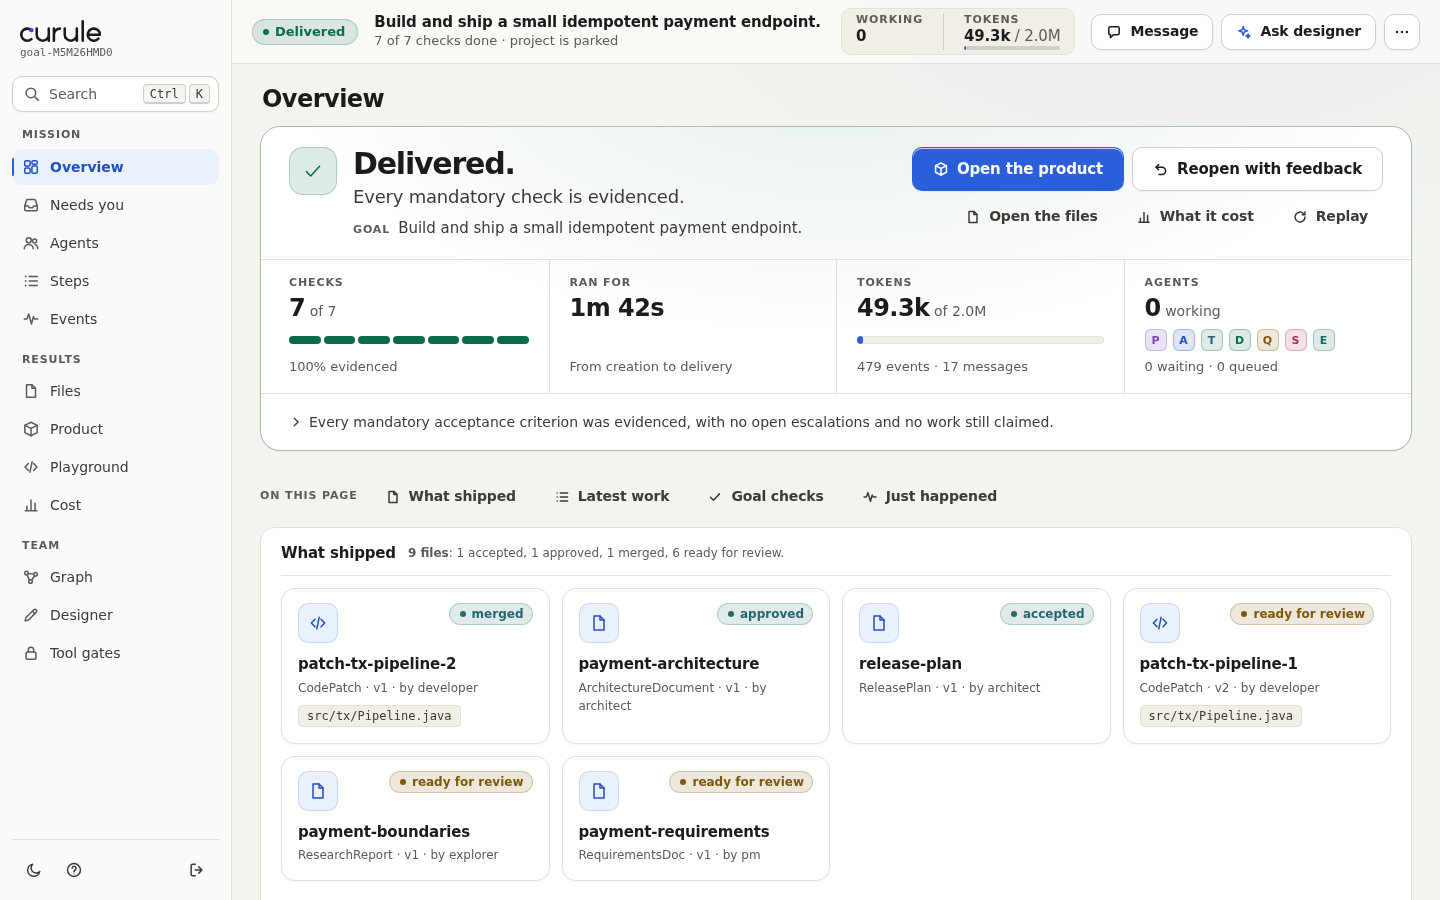
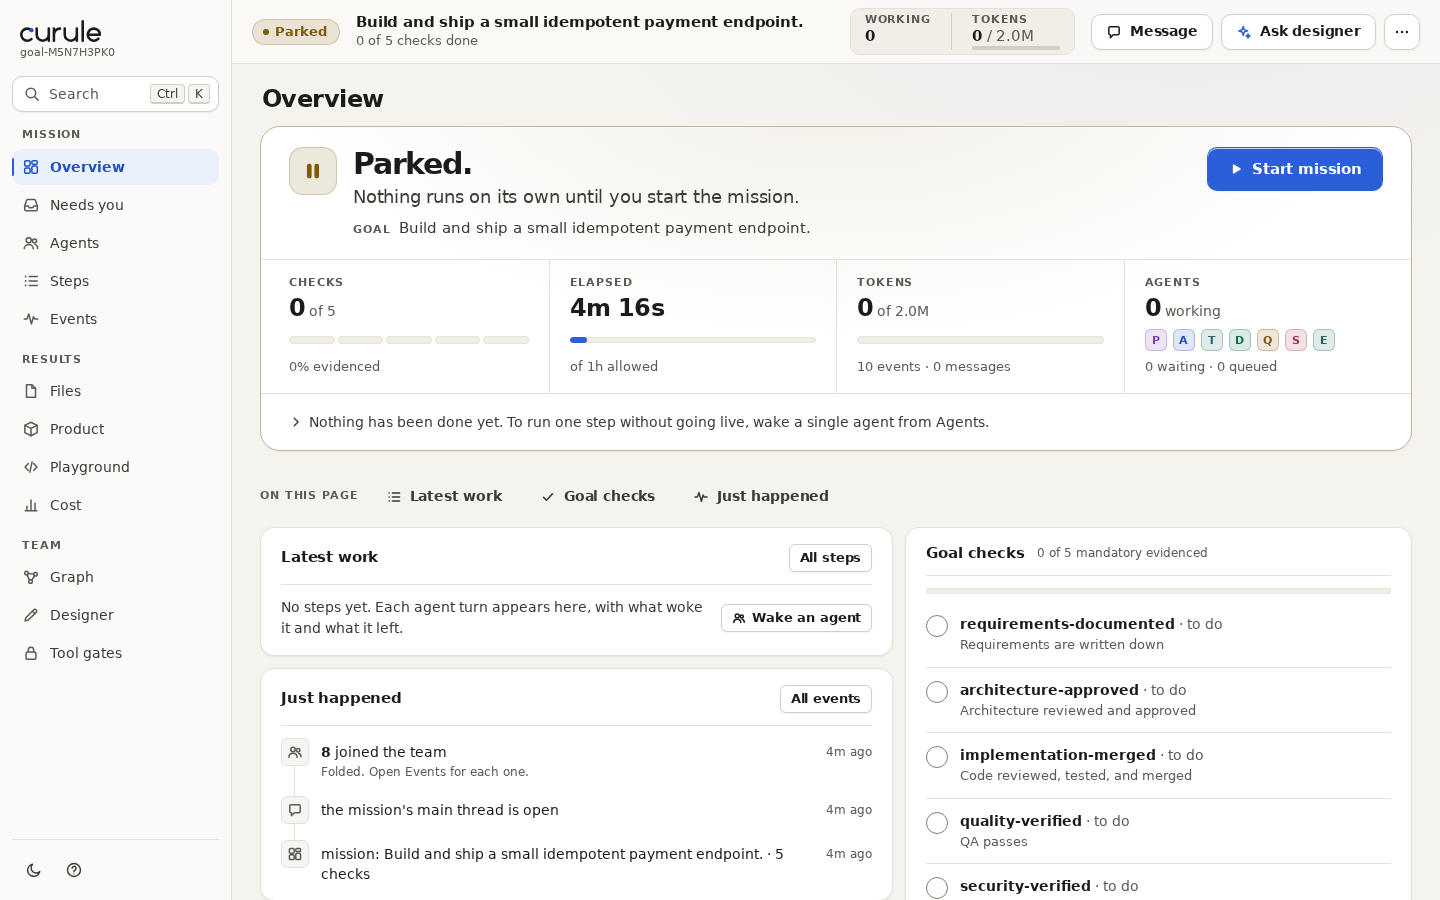
chore(ux): the three passes of 2026-10-24, with their before and after
The public pricing page, the account pages and the console each had a measured pass.
The record carries all three, newest first: the plans before the choice, the way into
an account on one phone screen, and a parked console that reads as a briefing. The
three 'where they stand now' captures are the state after these passes.

diff --git a/site/ux/index.html b/site/ux/index.html
@@ -52,7 +52,34 @@
   <h2>Where they stand now</h2>
   <div class="pair three"><a class="shot" href="shots/landing-now.png"><img src="shots/landing-now.png" alt="the landing page" loading="lazy"><span>the landing page</span></a><a class="shot" href="shots/account-now.png"><img src="shots/account-now.png" alt="the account pages" loading="lazy"><span>the account pages</span></a><a class="shot" href="shots/console-now.png"><img src="shots/console-now.png" alt="the console" loading="lazy"><span>the console</span></a></div>
 </section>
-<p class="stat"><span><b>12</b> passes</span><span><b>11</b> merged</span><span><b>4</b> surfaces</span><span>updated 23 Oct 2026 14:15</span></p>
+<p class="stat"><span><b>15</b> passes</span><span><b>14</b> merged</span><span><b>4</b> surfaces</span><span>updated 24 Oct 2026 00:16</span></p>
+<article class="pass">
+  <header>
+    <h2>the pricing page</h2>
+    <p class="when">24 Oct 2026 · 00:10</p>
+  </header>
+  <div class="pair"><a class="shot" href="shots/20261024-0010-before.png"><img src="shots/20261024-0010-before.png" alt="before this pass" loading="lazy"><span>before this pass</span></a><a class="shot" href="shots/20261024-0010-after.png"><img src="shots/20261024-0010-after.png" alt="after" loading="lazy"><span>after</span></a></div>
+  <ul class="did"><li>The price comes first. On a phone the licence plans now open the page: the first plan card is at <b>y=737</b> (was 1,924) and its amount at <b>886</b> (was 2,074), so a buyer meets a figure 63 px inside the first screen instead of 1,124 px below it; the section itself is at <b>537</b> (was 1,794). The Cloud-only &ldquo;do you run it, or do we?&rdquo; choice follows the plans, where it answers a question the plans raise.</li><li>One billing period per plan. The phone comparison follows the Annual/Monthly switch above it: four repeated price rows removed, the stack <b>1,558 → 1,411 px</b> and the page <b>13,944 → 13,835 px</b> at 360 (Monthly 13,771). The surviving row still names its period.</li><li>The On this page bar marks the section the page opens with: at scroll y=560 it finds &ldquo;The plans&rdquo; (before, the first 1,257 px had no chip). The plans heading is visible text, not screen-reader-only, and the licence card now says &ldquo;the plans above&rdquo;.</li><li>The 12 px type floor is now true: the smallest computed text on the site was the Designer caption's inline code at <b>11.375 px</b>, now <b>12 px</b>; the sub-12 px census is empty on home and pricing at 320 and 360. No page scrolls sideways at 320/360/768/1440, print keeps the comparison, and there are no console errors.</li></ul>
+  <p class="meta">12 files changed · <code>78295a2</code> · suite green, merged</p>
+</article>
+<article class="pass">
+  <header>
+    <h2>the account pages</h2>
+    <p class="when">24 Oct 2026 · 00:12</p>
+  </header>
+  <div class="pair"><a class="shot" href="shots/20261024-0012-before.png"><img src="shots/20261024-0012-before.png" alt="before this pass" loading="lazy"><span>before this pass</span></a><a class="shot" href="shots/20261024-0012-after.png"><img src="shots/20261024-0012-after.png" alt="after" loading="lazy"><span>after</span></a></div>
+  <ul class="did"><li>The way in fits one phone screen. At 360 × 800 the sign-up action ends at <b>729</b> (was 753) and the &ldquo;Already have an account? Sign in&rdquo; line at <b>794</b> (was 818); the page is <b>1,480 → 1,440 px</b> (320 <b>1,627 → 1,587</b>, 768 <b>1,439 → 1,399</b>, 1440 <b>963 → 923</b>), with no sideways scroll at any of the four.</li><li>A refusal belongs to its field. After an empty submit the email field carries the message (<code>aria-describedby</code> <b>null → &ldquo;status&rdquo;</b>), and the action still ends at <b>795</b>, inside the screen; the refused sign-in's resend block is <b>807 → 787</b>.</li><li>A refusal no longer outlives its value: typing in the field clears the sentence and its described-by, returning the page from <b>1,506 → 1,440 px</b>; the password's own hint stays.</li><li>Nothing regressed: the plan-less account is <b>1,627 px</b> with the first price at y=708, no text under 12 px and no target under 44 px.</li></ul>
+  <p class="meta">3 files changed · <code>b146048</code> · suite green, merged</p>
+</article>
+<article class="pass">
+  <header>
+    <h2>the console</h2>
+    <p class="when">24 Oct 2026 · 00:14</p>
+  </header>
+  <div class="pair"><a class="shot" href="shots/20261024-0014-before.png"><img src="shots/20261024-0014-before.png" alt="before this pass" loading="lazy"><span>before this pass</span></a><a class="shot" href="shots/20261024-0014-after.png"><img src="shots/20261024-0014-after.png" alt="after" loading="lazy"><span>after</span></a></div>
+  <ul class="did"><li>A parked mission reads as a briefing, not a roster. <code>agent.created</code> now folds like <code>agent.completed</code>, so the eight seats joining are one row: Just happened <b>8 rows → 3</b>, the panel <b>423 → 233 px</b> at 1440 and <b>727 → 351 px</b> at 390. The goal it was created for is now on the panel.</li><li>The empty Latest work card has a way forward: &ldquo;No work yet.&rdquo; is a sentence plus <b>&ldquo;Wake an agent&rdquo;</b>, a real route (<b>151 × 44 px</b> at 390); the card is <b>108 → 129 px</b> at 1440 and <b>124 → 197 px</b> at 390.</li><li>The mission outranks the page name on a phone: &ldquo;Overview&rdquo; and &ldquo;Parked.&rdquo; both measured 24 px at 390; the state takes the 30 px display step (long states still step to 20), and the hero grows 7 px.</li><li>The Overview is shorter and still clean: <b>2,092 → 1,795 px</b> at 390 (<b>1,816</b> at 360) and <b>985 → 861 px</b> at 1440; no page scroll at 360/390/1440 in light or dark, no control under 44 × 44, and the smallest text pair is unchanged at <b>5.61:1</b>.</li></ul>
+  <p class="meta">5 files changed · <code>f165f03</code> · suite green, merged</p>
+</article>
 <article class="pass">
   <header>
     <h2>the landing page</h2>
